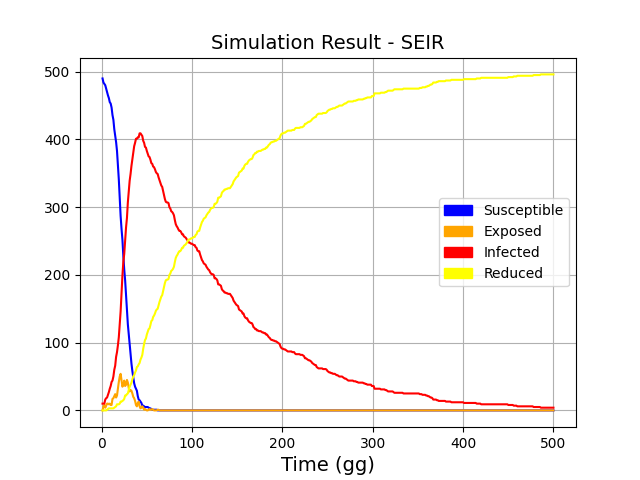
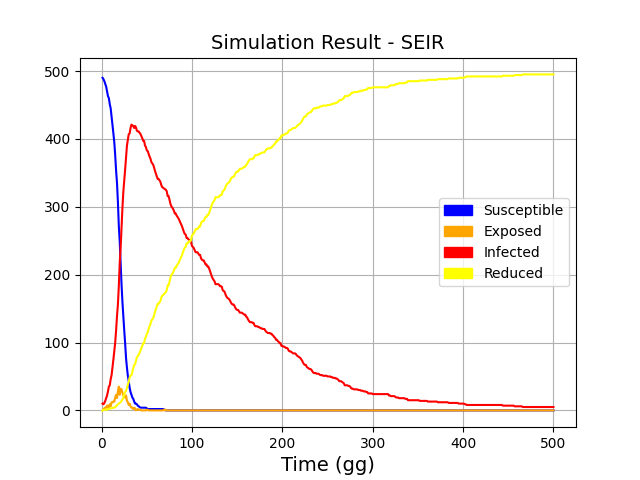
Semplificato miglioria per la precisione di SEIR
- Quando il tempo residuo di un nodo in I è inferiore a 0.5 il nodo cambia stato

diff --git a/epidemic_sim.py b/epidemic_sim.py
@@ -407,9 +407,7 @@ def sim_SIR(graph, start_t, end_t):
         # I --> R
         for index in range(len(i_list) - 1, -1, -1):
             # if infect[0] in part:
-            if i_list[index][1] <= 0 or (
-                precision_ctrl and i_list[index][1] <= 1 and random.uniform(0, 1) <= i_list[index][
-                1]):  # abbiamo superato la durata dell'infezione generata
+            if i_list[index][1] <= 0.5:  # abbiamo superato la durata dell'infezione generata
                 r_list.append(i_list[index][0])
                 i_list.remove(i_list[index])
             else:
@@ -449,8 +447,7 @@ def sim_SEIR(graph, start_t, end_t):
         # I --> R
         for index in range(len(i_list) - 1, -1, -1):
             # if infect[0] in part:
-            if i_list[index][1] <= 0 or (
-                precision_ctrl and i_list[index][1] <= 1 and random.uniform(0, 1) <= i_list[index][1]):
+            if i_list[index][1] <= 0.5:
                 r_list.append(i_list[index][0])
                 i_list.remove(i_list[index])
             else:
@@ -458,8 +455,7 @@ def sim_SEIR(graph, start_t, end_t):
         # E --> I
         # print("Prima: " + str(e_list))
         for index in range(len(e_list) - 1, -1, -1):
-            if e_list[index][1] <= 0 or (
-                precision_ctrl and e_list[index][1] <= 1 and random.uniform(0, 1) <= e_list[index][1]):
+            if e_list[index][1] <= 0.5:
                 duration_gamma = random.expovariate(gamma1)
                 i_list.append([e_list[index][0], duration_gamma])
                 e_list.remove(e_list[index])
@@ -828,7 +824,9 @@ if __name__ == '__main__':
         print(b)
         print(c)
         print(d)
-
+    elif sys.argv[1] == "test_gr":
+        G1 = gm.create_station_graph([2, 3, 10, 11, 12, 13, 14, 15, 16, 17], 0.2)
+        gm.print_graph_with_labels_and_neighb(G)
     else:
         parse_input_file()
         simulate()

diff --git a/README.md b/README.md
@@ -11,7 +11,7 @@ i contatti che i cittadini hanno durante il giorno in un contesto cittadino.
 
 ```bash
 pip install EoN
-python main.py
+python epidemic_sim.py
 ```
 
 ## License
